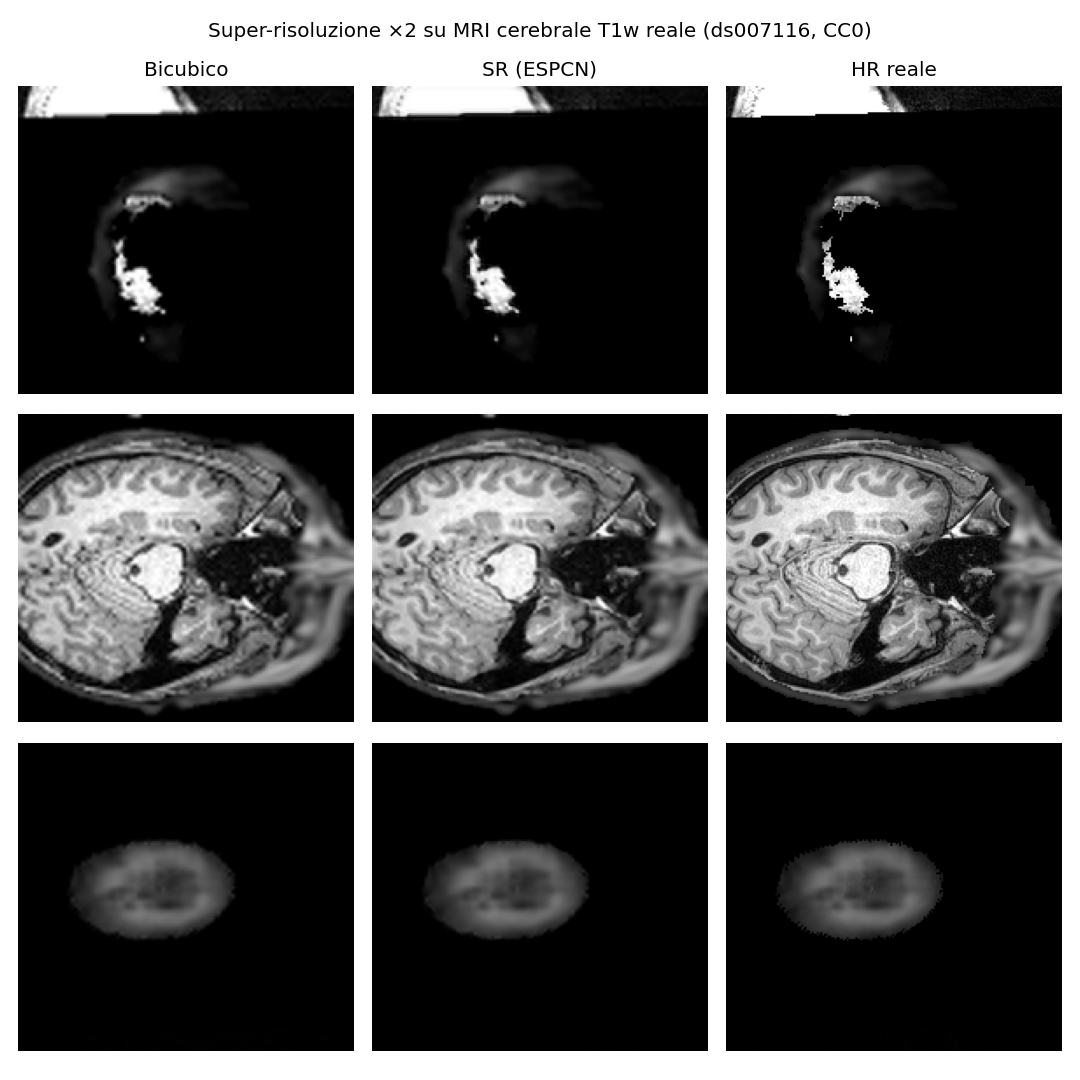
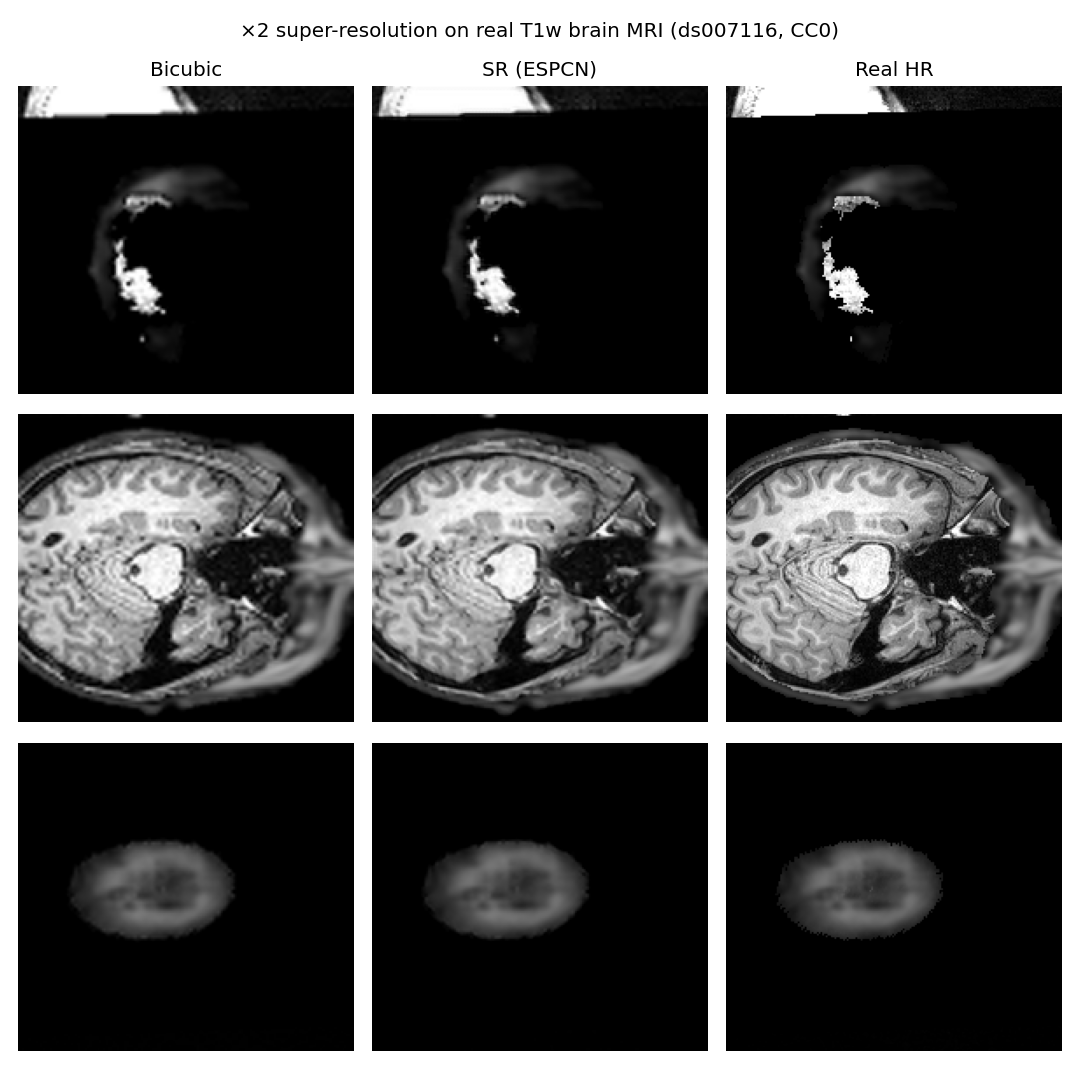
chore: regenerate results and figures with English labels; update docs to the new run

Changed region(s): [[0.2139, 0.0, 0.7944, 0.0611], [0.1222, 0.0611, 0.2139, 0.0917], [0.7944, 0.0611, 0.8556, 0.0917]]

diff --git a/README.md b/README.md
@@ -106,12 +106,12 @@ grayscale, ×2), ESPCN model trained for 30 epochs on CPU. Numbers produced by
 | Method            | PSNR (dB) | SSIM   |
 |-------------------|-----------|--------|
 | Bicubic           | 34.47     | 0.9506 |
-| **ESPCN (SR)**    | **36.65** | **0.9623** |
-| **Δ (SR − bicubic)** | **+2.17** | **+0.0117** |
+| **ESPCN (SR)**    | **36.60** | **0.9620** |
+| **Δ (SR − bicubic)** | **+2.13** | **+0.0114** |
 
 (BloodMNIST test set, 1000 images, HR 64×64 grayscale, ×2, ESPCN 30 epochs on CPU.)
 
-The SR network **beats** the bicubic baseline in both PSNR (+2.17 dB) and SSIM,
+The SR network **beats** the bicubic baseline in both PSNR (+2.13 dB) and SSIM,
 averaged over the test set. Figures in `results/`: *before/after* examples and a
 histogram of per-image PSNR (SR vs bicubic). Numbers and figures are regenerated
 by `scripts/evaluate.py` (`results/metrics.json`).

diff --git a/report/brain_superres.md b/report/brain_superres.md
@@ -36,7 +36,7 @@ Numbers from `results/brain_metrics.json` (held-out subject, 32 slices 176×192,
 | **Δ (SR − bicubic)** | **+0.52** | **+0.0070** |
 
 On real brain anatomy and on an unseen subject, SR **beats** bicubic on both
-metrics. The gain is smaller than on the MedMNIST benchmark (+2.17 dB), which is
+metrics. The gain is smaller than on the MedMNIST benchmark (+2.13 dB), which is
 expected when training on a single brain and evaluating across subjects.
 Figures: `results/brain_examples.png` (bicubic/SR/HR),
 `results/brain_psnr_hist.png` (per-slice PSNR distribution).

diff --git a/MODEL_CARD.md b/MODEL_CARD.md
@@ -25,9 +25,9 @@
 ## Metrics (reproducible, `results/metrics.json`, n_test=1000)
 | | SR (ESPCN) | Bicubic |
 |---|---|---|
-| PSNR (dB) | 36.65 | 34.47 |
+| PSNR (dB) | 36.60 | 34.47 |
 | SSIM | 0.962 | 0.951 |
-- Gain: **+2.17 dB PSNR**, +0.0117 SSIM.
+- Gain: **+2.13 dB PSNR**, +0.0114 SSIM.
 
 ## Methodological note (documented debugging)
 With standard ReLU the network fell into **dying ReLU** (zero residual, so the SR output copied
